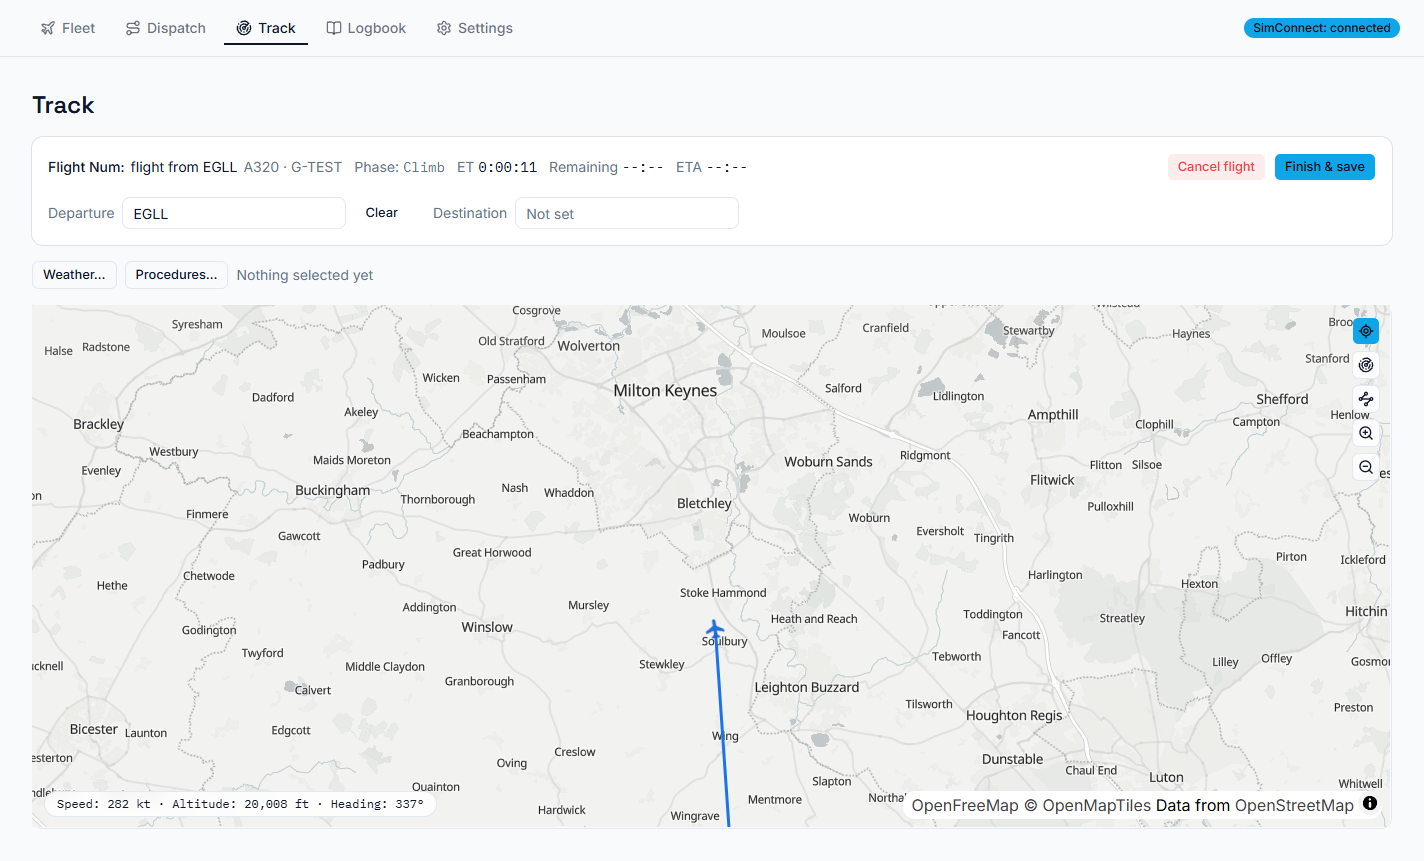
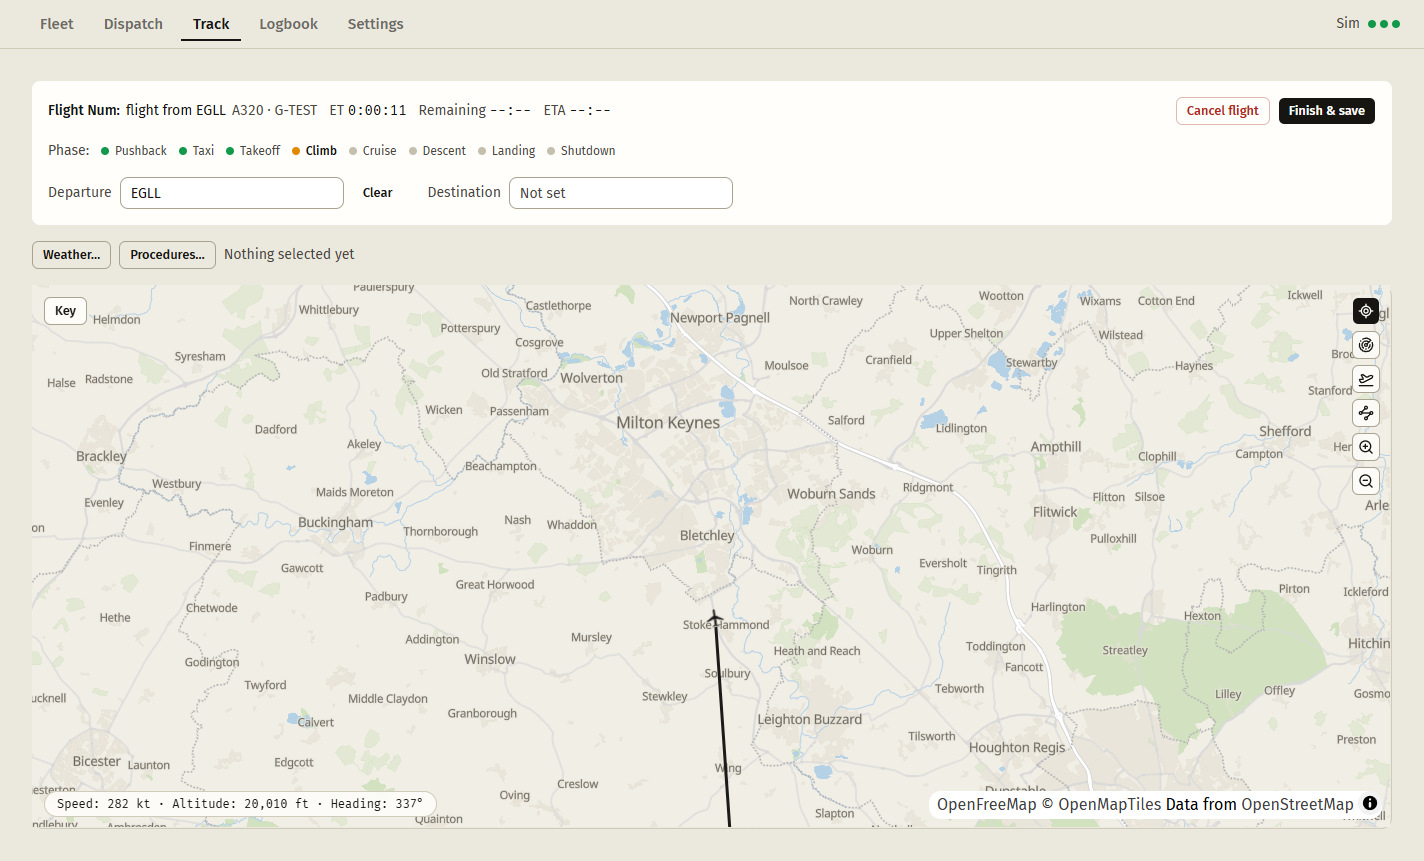
v2 design: Track's phases get a row of their own; the manual's screenshots are regenerated on the new design

diff --git a/src/renderer/src/track/TrackCards.tsx b/src/renderer/src/track/TrackCards.tsx
@@ -175,8 +175,6 @@ export function ActiveFlightCard(props: {
             simIcaoType={flight?.simIcaoType}
             simRegistration={flight?.simRegistration}
           />
-          <span className="text-sm text-muted-foreground">{t('trackView.phase')}</span>
-          <PhaseLights phase={props.active.phase} />
           <TimeReadouts times={props.times} />
         </div>
         <div className="flex gap-2">
@@ -195,6 +193,11 @@ export function ActiveFlightCard(props: {
             {t('trackView.finishAndSave')}
           </Button>
         </div>
+      </CardContent>
+      {/* The phases get a row of their own: seven words and their lights would crowd the flight's name. */}
+      <CardContent className="flex flex-wrap items-center gap-x-3 gap-y-1">
+        <span className="text-sm text-muted-foreground">{t('trackView.phase')}</span>
+        <PhaseLights phase={props.active.phase} />
       </CardContent>
       {flight && !flight.hasOfp && (
         <CardContent className="flex flex-wrap gap-x-6 gap-y-2">

diff --git a/e2e/manual-screenshots.shots.ts b/e2e/manual-screenshots.shots.ts
@@ -176,7 +176,9 @@ test('a live free flight on Track', async () => {
     await page.getByRole('button', { name: 'Free flight' }).click()
     await page.getByRole('button', { name: 'Start tracking' }).click()
     // Into the climb, so the map shows a trail behind the aircraft.
-    await expect(page.getByText(/Phase:\s*climb/i)).toBeVisible({ timeout: 240_000 })
+    await expect(page.locator('[data-testid="phase-lights"] [aria-current="step"]')).toHaveText(/climb/i, {
+      timeout: 240_000
+    })
     await page.waitForTimeout(10_000)
     await shot(page, 'track')
   } finally {
